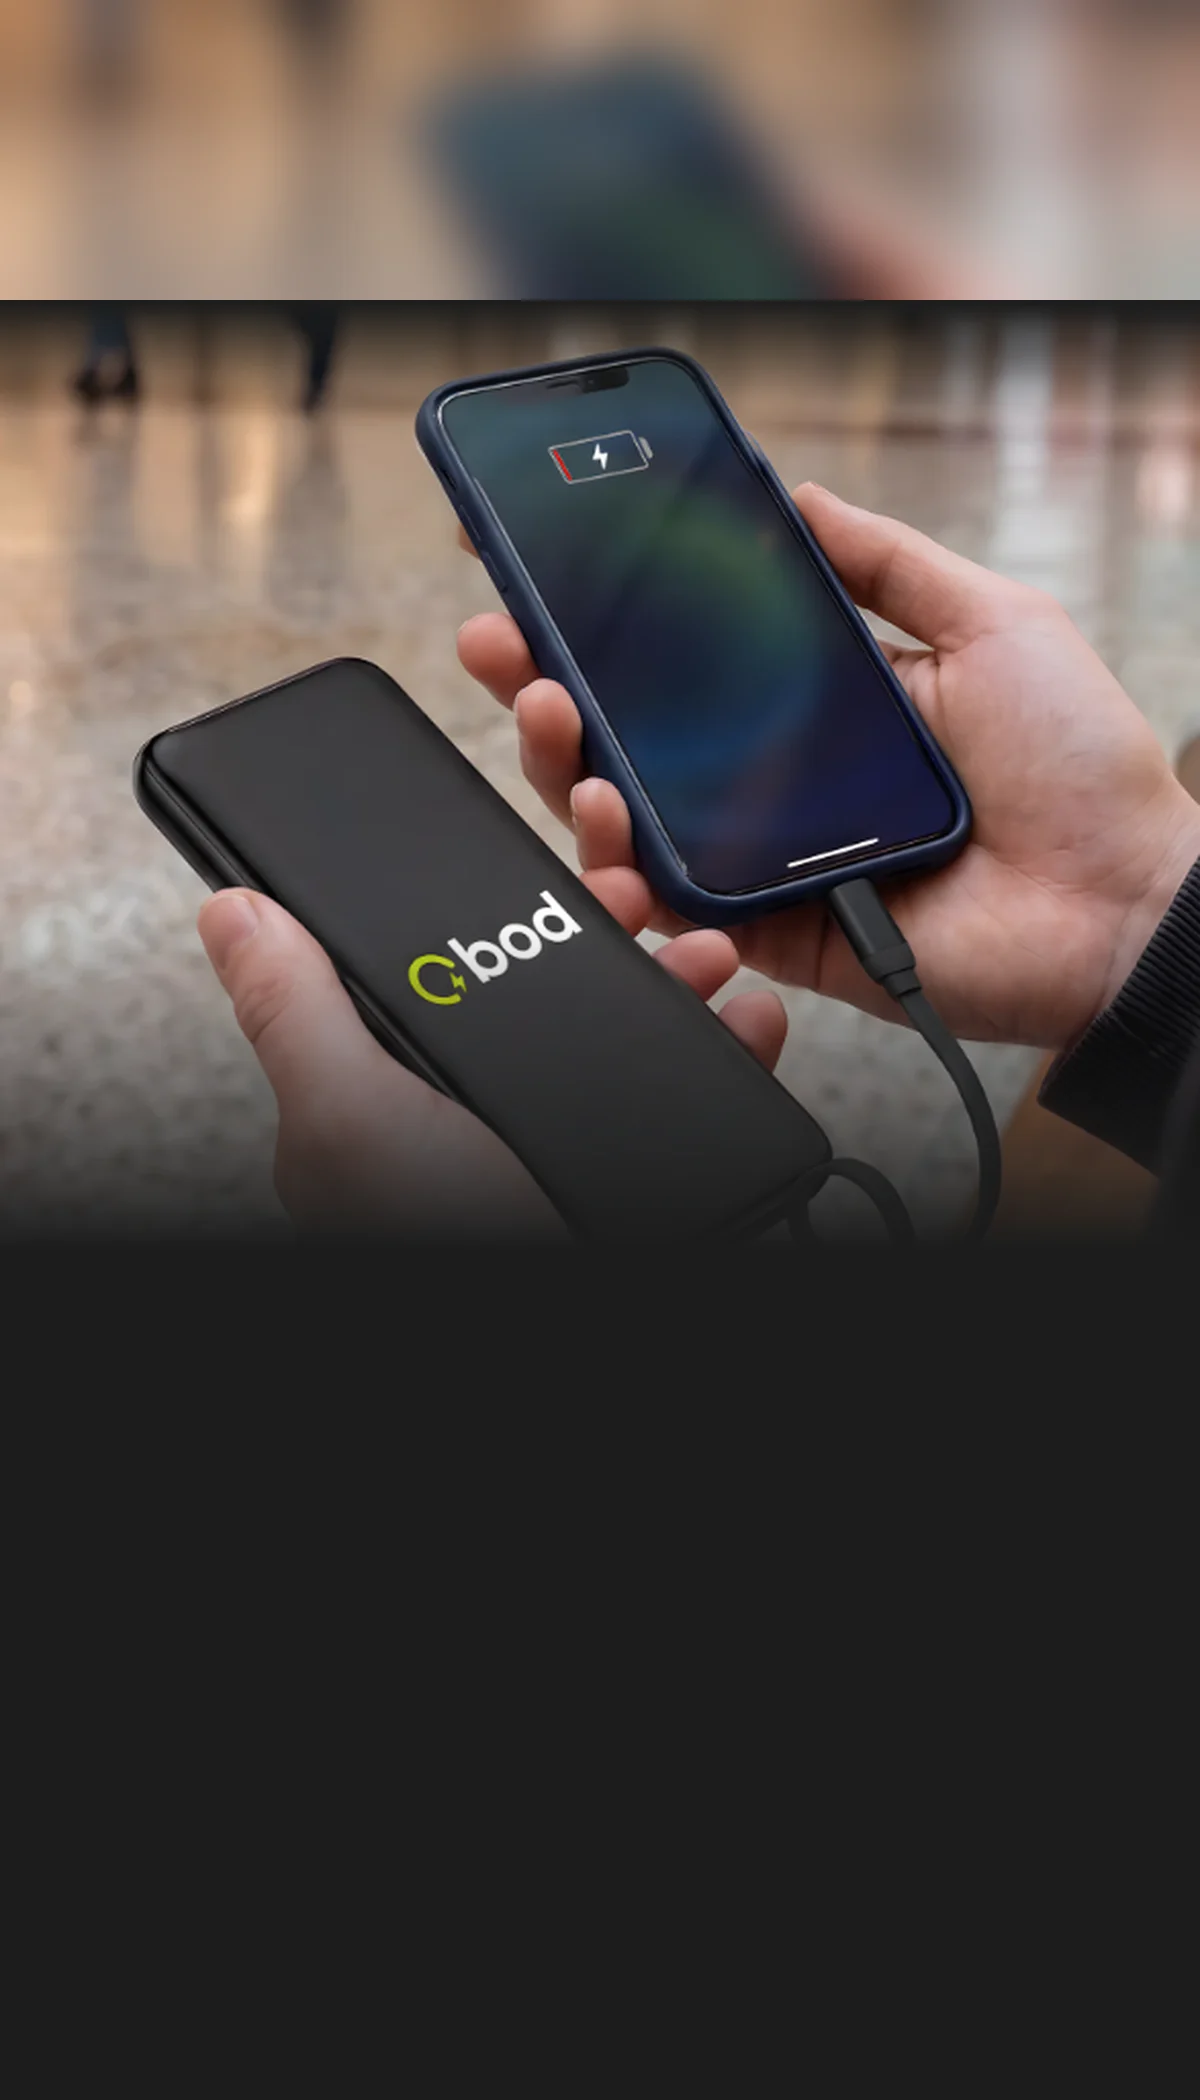
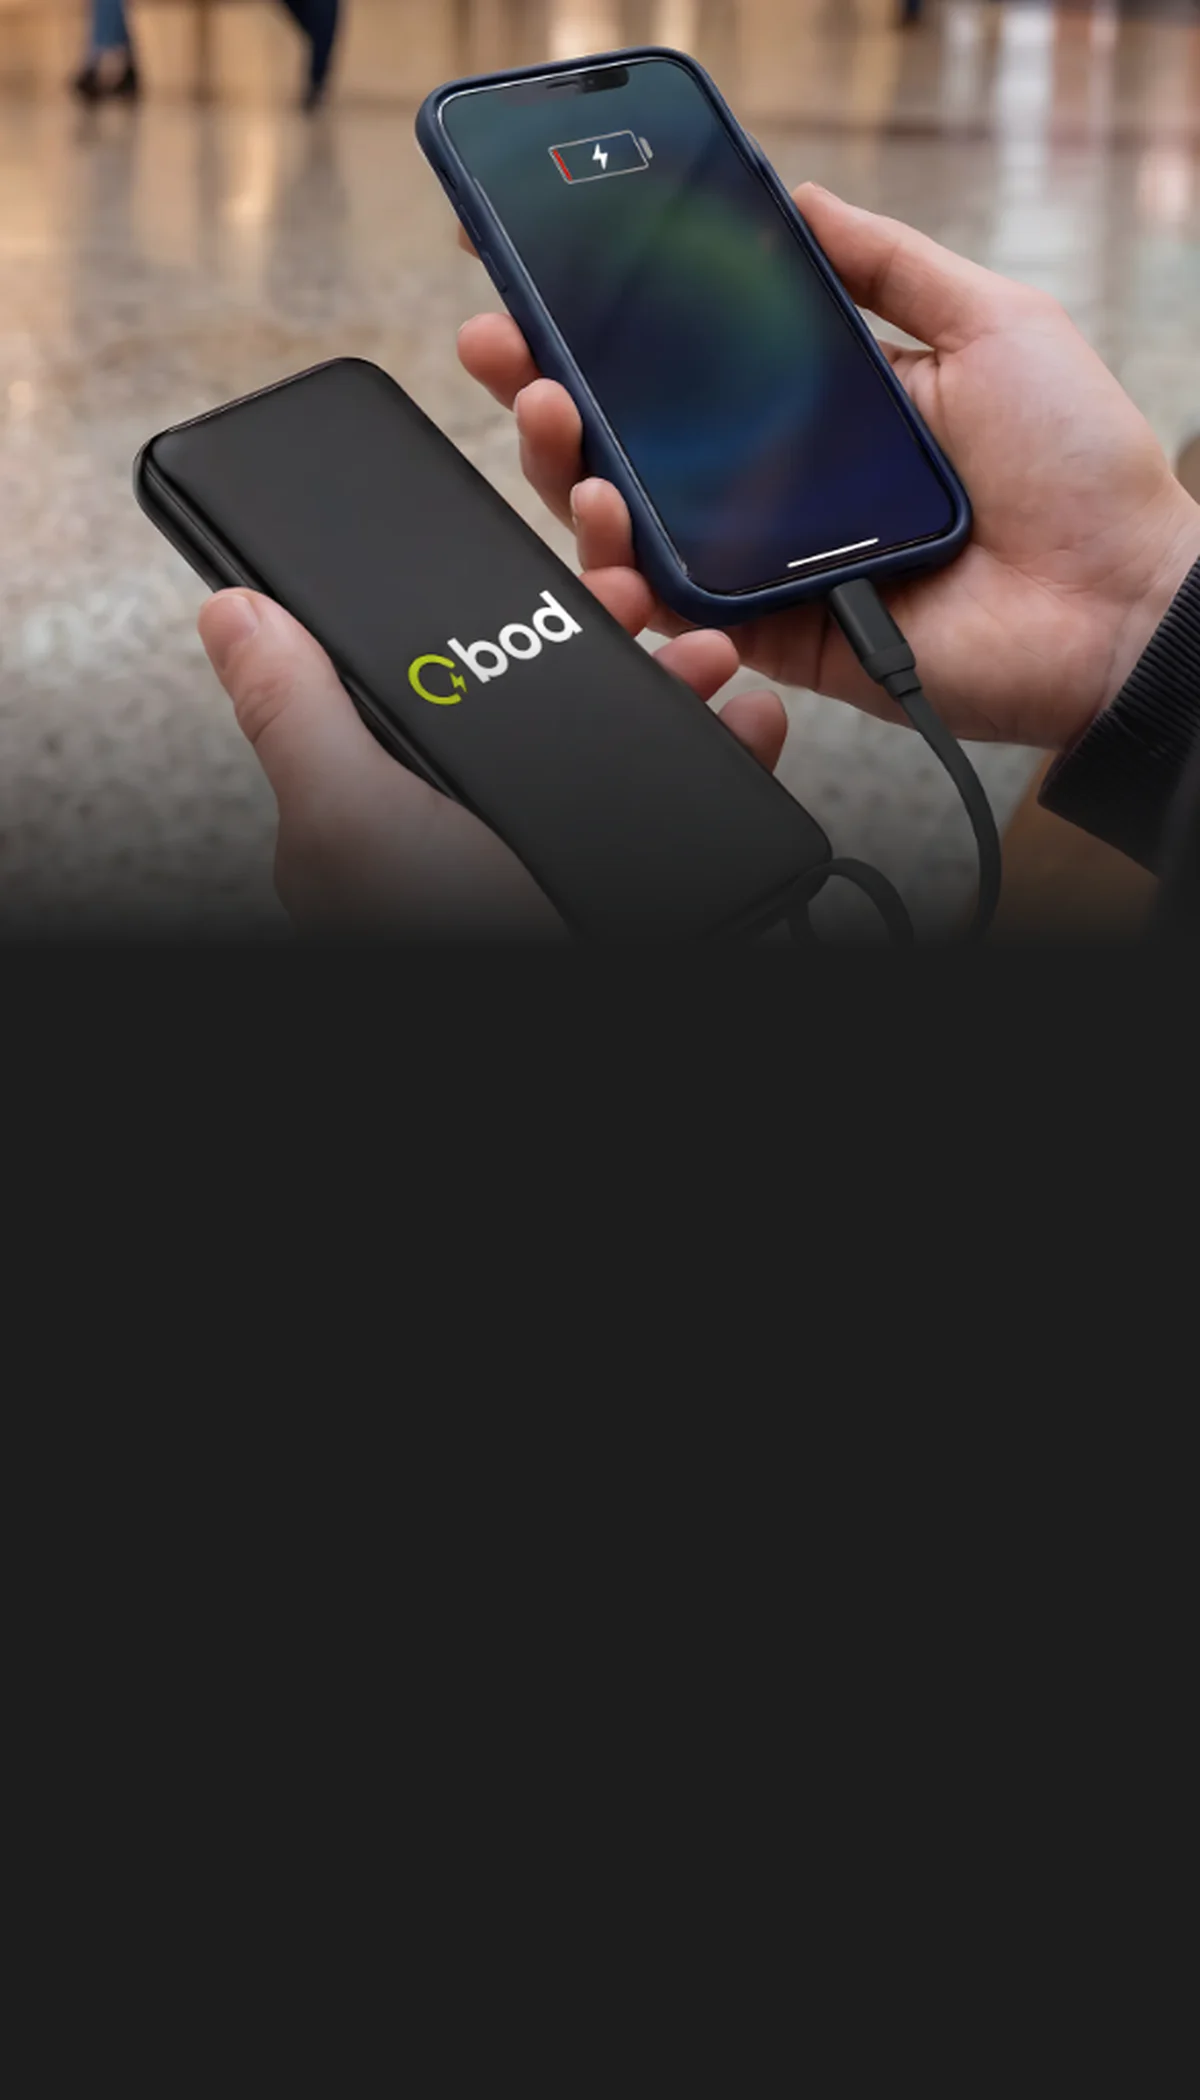
Accueil : plus de bande floue sur téléphone, chiffres visibles sur la première page sur ordinateur

diff --git a/index.html b/index.html
@@ -158,10 +158,13 @@
     .m-phones { zoom: .66; }
     .m-stack { grid-template-columns: 1fr !important; }
   }
+  /* 30/10/2026 (Jules) : ordinateur — image un peu moins haute pour voir les chiffres en bas de la première page */
+  @media (min-width: 1024px) { .hero-img-wrap { width: min(100%, 440px, calc((100vh - 400px) * .8)) !important; } .hero { padding-bottom: 40px !important; } }
   /* Téléphone : la photo du haut de page prend tout l'écran, le titre, le texte et les boutons sont posés dessus */
   @media (max-width: 767px) {
     .hero { display: flex !important; flex-direction: column; justify-content: flex-end; min-height: 100vh; min-height: 100svh; max-width: none; padding: 96px 24px 32px !important; isolation: isolate; }
-    .hero-media { position: absolute !important; inset: 0; z-index: -1; }
+    .hero-media { position: absolute !important; inset: 77px 0 0 0; z-index: -1; }          /* 30/10/2026 : la photo commence sous le menu (plus de bande floue) */
+    .hero { background: #1B1C1C; }
     .hero-media::after { content: ""; position: absolute; inset: 0; background: linear-gradient(180deg, rgba(27, 28, 28, .28) 0%, rgba(27, 28, 28, .05) 26%, rgba(27, 28, 28, .62) 55%, rgba(27, 28, 28, .93) 100%); }
     .hero-glow, .hero-badge { display: none !important; }
     .hero-img-wrap { max-width: none !important; max-height: none !important; width: 100%; height: 100%; aspect-ratio: auto !important; border-radius: 0 !important; box-shadow: none !important; transform: none !important; }
@@ -358,7 +361,7 @@
     <div class="hero-media animate-fade-in relative flex justify-center items-center">
       <div class="hero-glow absolute inset-0 bg-primary-container/15 rounded-full blur-[80px]"></div>
       <div class="hero-img-wrap relative w-full max-w-[440px] aspect-[4/5] max-h-72 sm:max-h-none rounded-3xl overflow-hidden shadow-2xl rotate-2">
-        <picture><source media="(max-width: 1023px)" srcset="images/hero-batterie-telephone-mobile.webp?v=2"><img src="images/hero-batterie-telephone.webp?v=1" alt="Un téléphone presque vide branché sur une batterie externe BOD" width="1200" height="1500" fetchpriority="high" class="w-full h-full object-cover"/></picture>
+        <picture><source media="(max-width: 767px)" srcset="images/hero-batterie-telephone-mobile.webp?v=3"><img src="images/hero-batterie-telephone.webp?v=1" alt="Un téléphone presque vide branché sur une batterie externe BOD" width="1200" height="1500" fetchpriority="high" class="w-full h-full object-cover"/></picture>
         <div class="hero-badge absolute bottom-6 left-6 right-6 bg-white/90 backdrop-blur-md rounded-2xl p-5 flex items-center gap-4">
           <div class="w-10 h-10 bg-primary-container rounded-xl flex items-center justify-center shrink-0">
             <span class="material-symbols-outlined text-on-primary-container text-xl" style="font-variation-settings: 'FILL' 1;">bolt</span>
